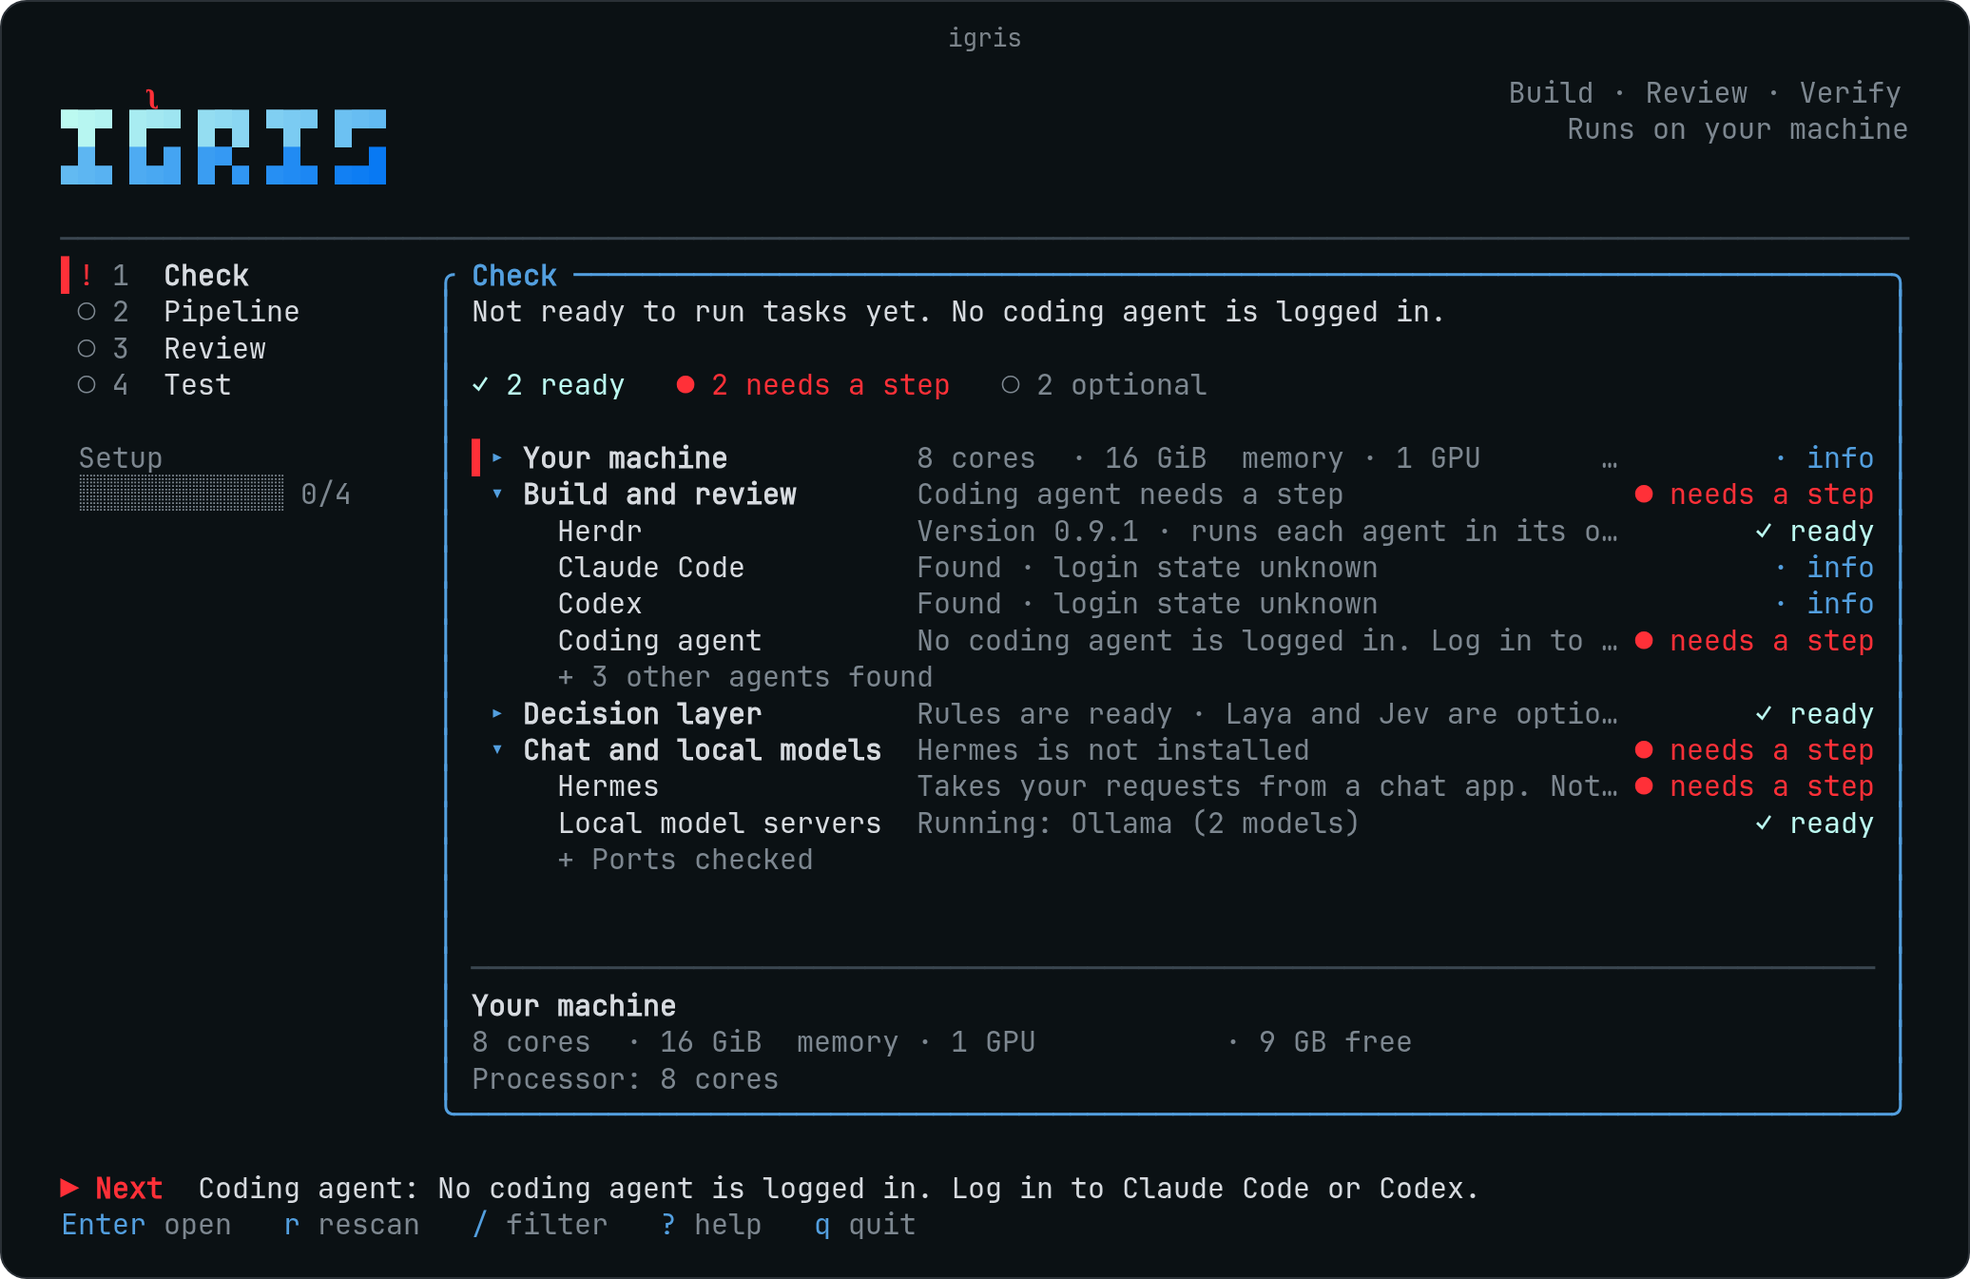
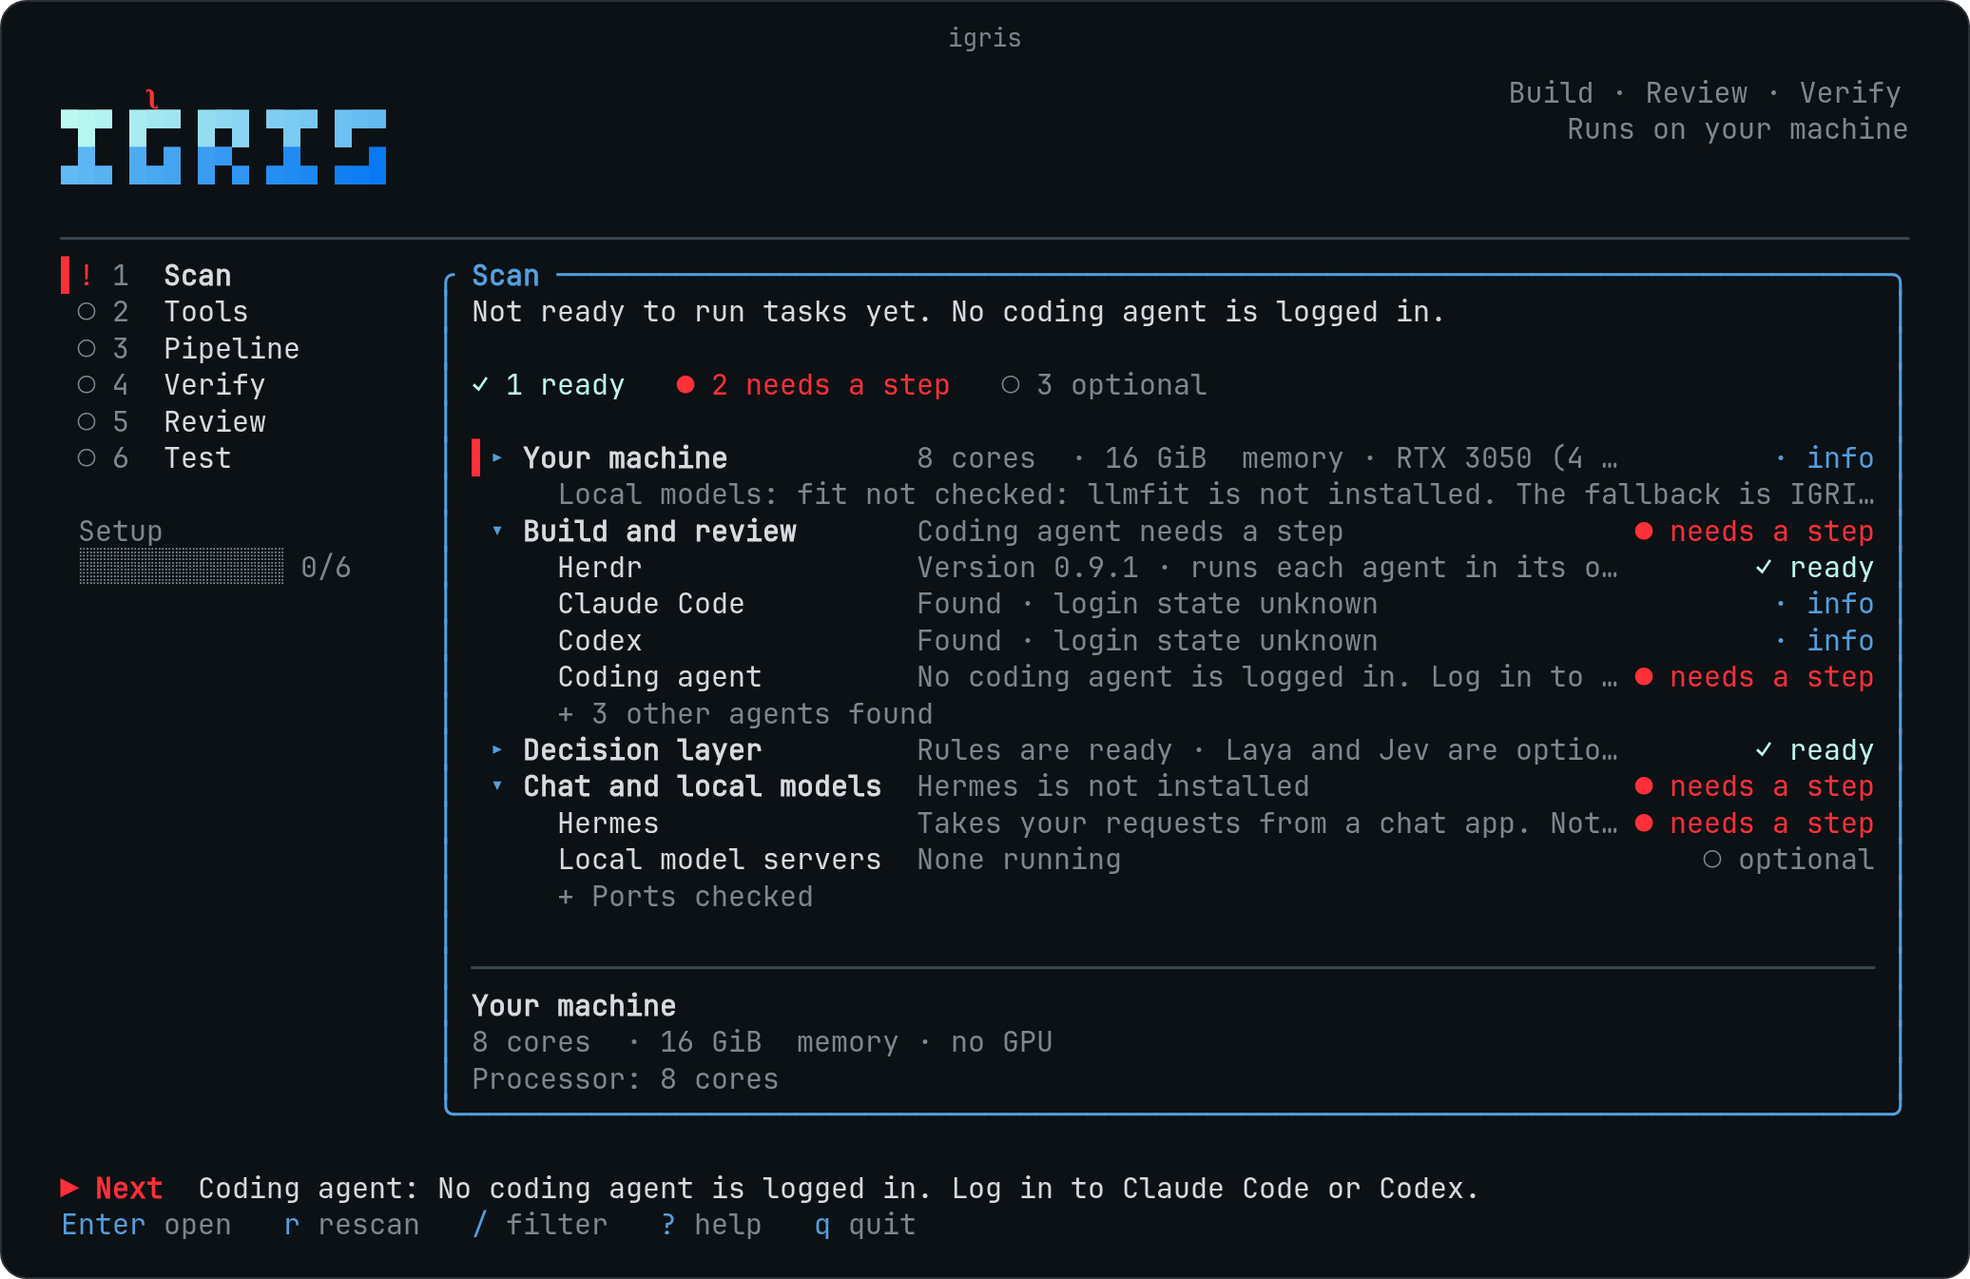
Added: Next steps box, six-step docs and an end-to-end run (454 tests).
The Test screen shows a short summary and a Next steps box after a green sample run: the
commands to use next and, for Hermes or CLI only, how to add the chat skill. The README
describes the six steps with new Tools and Verify screenshots, the changelog lists the
guided setup, and scripts/preview.py walks the six steps (agent checks answer at once, the
shim never writes through a symlink to a real tool). scripts/tui-e2e.sh walks Tools,
Pipeline, Verify, Review and Test with fake agents and checks that no igris is left.

Refs #66

Changed region(s): [[0.2471, 0.3435, 0.9575, 0.7182], [0.0309, 0.1874, 0.1853, 0.4684], [0.4942, 0.8119, 0.5251, 0.8431]]

diff --git a/crates/igris/src/tui/test_screen.rs b/crates/igris/src/tui/test_screen.rs
@@ -61,6 +61,77 @@ pub fn rerun(s: &mut State) -> Effect {
     Effect::RunChecks
 }
 
+/// Where the chat skill is kept in this repository, and where Hermes reads it.
+const SKILL: &str = "examples/hermes/igris/SKILL.md";
+const SKILL_TARGET: &str = "~/.hermes/skills/igris/SKILL.md";
+
+/// Every check passes and a sample task ran: setup is finished.
+fn finished(s: &State) -> bool {
+    s.tested
+        && s.test
+            .checks
+            .as_ref()
+            .is_some_and(|c| c.iter().all(|c| c.ok))
+}
+
+fn name_of(label: Option<String>) -> String {
+    label
+        .and_then(|l| crate::catalog::tool(&l).map(|t| t.name.to_string()))
+        .unwrap_or_else(|| "?".into())
+}
+
+/// What was set up, in words. The assistant line says plainly when there is none.
+pub fn summary_lines(s: &State) -> Vec<String> {
+    use super::tools_screen::AssistantChoice;
+    let pick =
+        |sel: Option<&super::form::Select>| sel.and_then(|x| x.current()).map(|i| i.label.clone());
+    let form = s.pipeline.form.as_ref();
+    let line = format!(
+        "Herdr runs the agents · {} builds · {} reviews · {} decides",
+        name_of(pick(form.map(|f| &f.builder))),
+        name_of(pick(form.map(|f| &f.reviewer))),
+        pick(form.map(|f| &f.backend)).unwrap_or_else(|| "rules".into()),
+    );
+    let assistant = match s.tools.assistant {
+        AssistantChoice::CliOnly => {
+            "Assistant: CLI only. You start tasks from the terminal; there is no chat app."
+                .to_string()
+        }
+        AssistantChoice::Tool(id) => format!(
+            "Assistant: {}. Chat with it once its chat app is linked.",
+            crate::catalog::tool(id).map_or(id, |t| t.name)
+        ),
+        AssistantChoice::Unset => "Assistant: not chosen yet (key 2, Tools).".to_string(),
+    };
+    vec![line, assistant]
+}
+
+/// The commands to use now, then (without a chat assistant) how to add one later.
+pub fn next_steps_lines(s: &State) -> Vec<String> {
+    use super::tools_screen::AssistantChoice;
+    let mut v = vec![
+        "Next steps".to_string(),
+        "  igris run --task \"<your task>\"   start a task".to_string(),
+        "  igris doctor                     check this machine again".to_string(),
+        "  igris continue <id>              carry on after you answer an agent in Herdr"
+            .to_string(),
+    ];
+    match s.tools.assistant {
+        AssistantChoice::CliOnly => {
+            v.push(format!(
+                "Chat later: copy {SKILL} to {SKILL_TARGET}, then set up a chat app in Hermes."
+            ));
+        }
+        AssistantChoice::Tool("hermes") => {
+            v.push(format!(
+                "Chat: copy {SKILL} to {SKILL_TARGET}, then link a chat app in Hermes."
+            ));
+        }
+        _ => {}
+    }
+    v
+}
+
 pub fn draw(f: &mut Frame, area: Rect, s: &State, t: &Theme, hits: &mut HitMap, clickable: bool) {
     let width = area.width as usize;
     let ascii = t.glyphs == Glyphs::Ascii;
@@ -100,7 +171,33 @@ pub fn draw(f: &mut Frame, area: Rect, s: &State, t: &Theme, hits: &mut HitMap, 
     // The table: id, detail, status in one column at the right edge; a failing check says how to fix it.
     let table_bottom = area.height.saturating_sub(5);
     let mut row = 2u16;
-    if let Some(checks) = &s.test.checks {
+    // Once setup is finished the table has said its piece: the summary and the next steps replace it.
+    let table = if finished(s) {
+        None
+    } else {
+        s.test.checks.as_ref()
+    };
+    if finished(s) {
+        let mut lines = summary_lines(s);
+        lines.push(String::new());
+        lines.extend(next_steps_lines(s));
+        for (i, text) in lines.iter().enumerate() {
+            let y = 2 + i as u16;
+            if y >= table_bottom {
+                break;
+            }
+            let style = if text == "Next steps" {
+                t.style(Role::Text).add_modifier(bold)
+            } else {
+                dim
+            };
+            f.render_widget(
+                Paragraph::new(Line::styled(fit(t, text, width.saturating_sub(2)), style)),
+                at(y),
+            );
+        }
+    }
+    if let Some(checks) = table {
         let sw = status_width(t);
         let detail_w = width.saturating_sub(2 + 10 + 1 + 1 + sw);
         for c in checks {
@@ -230,13 +327,17 @@ mod tests {
     }
 
     fn render(s: &State) -> (String, HitMap) {
-        let mut term = Terminal::new(TestBackend::new(100, 24)).unwrap();
+        render_h(s, 24)
+    }
+
+    fn render_h(s: &State, h: u16) -> (String, HitMap) {
+        let mut term = Terminal::new(TestBackend::new(100, h)).unwrap();
         let mut hits = HitMap::default();
         let t = Theme::detect(&Env::default());
         term.draw(|f| draw(f, f.area(), s, &t, &mut hits, true))
             .unwrap();
         let buf = term.backend().buffer().clone();
-        let text = (0..24u16)
+        let text = (0..h)
             .map(|y| {
                 (0..100u16)
                     .map(|x| buf[(x, y)].symbol().to_string())
@@ -245,6 +346,90 @@ mod tests {
             .collect::<Vec<_>>()
             .join("\n");
         (text, hits)
+    }
+
+    /// Setup is finished: the checks pass and the sample task ran.
+    fn green() -> State {
+        let mut s = on_test();
+        s.blocker = None;
+        s.test.checks = Some(vec![check("config", true)]);
+        s.tested = true;
+        s.tools.assistant = crate::tui::tools_screen::AssistantChoice::CliOnly;
+        s
+    }
+
+    #[test]
+    fn the_next_steps_box_lists_run_doctor_and_continue_after_a_green_sample() {
+        let (text, _) = render(&green());
+        for want in [
+            "Next steps",
+            "igris run --task \"<your task>\"",
+            "igris doctor",
+            "igris continue <id>",
+        ] {
+            assert!(text.contains(want), "{want}:\n{text}");
+        }
+        // Not before the sample ran, and not while a check fails.
+        let mut s = green();
+        s.tested = false;
+        assert!(!render(&s).0.contains("Next steps"));
+        let mut s = green();
+        s.test.checks = Some(vec![check("config", true), check("clean", false)]);
+        let (text, _) = render(&s);
+        assert!(
+            !text.contains("Next steps") && text.contains("fix for clean"),
+            "{text}"
+        );
+    }
+
+    #[test]
+    fn cli_only_adds_the_chat_later_line() {
+        use crate::tui::tools_screen::AssistantChoice;
+        let (text, _) = render(&green());
+        assert!(
+            text.contains("Chat later:") && text.contains("examples/hermes/igris/SKILL.md"),
+            "{text}"
+        );
+        let mut s = green();
+        s.tools.assistant = AssistantChoice::Tool("openclaw");
+        assert!(
+            !render(&s).0.contains("SKILL.md"),
+            "no Hermes skill for another assistant"
+        );
+        s.tools.assistant = AssistantChoice::Tool("hermes");
+        assert!(
+            render(&s)
+                .0
+                .contains("Chat: copy examples/hermes/igris/SKILL.md")
+        );
+    }
+
+    #[test]
+    fn the_summary_says_cli_only_plainly() {
+        let (text, _) = render(&green());
+        assert!(
+            text.contains(
+                "Assistant: CLI only. You start tasks from the terminal; there is no chat app."
+            ),
+            "{text}"
+        );
+        assert!(
+            text.contains("Herdr runs the agents ·") && text.contains("builds ·"),
+            "{text}"
+        );
+    }
+
+    #[test]
+    fn the_summary_and_the_steps_fit_the_smallest_panel() {
+        // The smallest window (80x24) leaves a panel about 15 rows high.
+        let (text, _) = render_h(&green(), 15);
+        for want in ["Assistant: CLI only", "igris continue <id>", "Chat later:"] {
+            assert!(text.contains(want), "{want}:\n{text}");
+        }
+        assert!(
+            text.contains("Run a sample task"),
+            "the buttons stay:\n{text}"
+        );
     }
 
     #[test]

diff --git a/scripts/preview.py b/scripts/preview.py
@@ -8,7 +8,7 @@ throwaway git repo in /tmp/igris-demo, captures the screens with their colours a
 font in site/src/assets/fonts:
 
     wordmark.png                                                 the IGRIS wordmark (README header)
-    check.png, pipeline.png, review.png, test.png                one screenshot per screen
+    check.png, tools.png, pipeline.png, verify.png, review.png, test.png   one screenshot per screen
     igris.gif                                                    the app in use, recorded live
     how-it-runs.gif                                              the pipeline page, one task start to finish
 
@@ -169,31 +169,46 @@ def demo_repo():
         sh(*git, "commit", "-q", "--allow-empty", "-m", "init")
     sh(*git, "reset", "-q", "--hard", sh(*git, "rev-list", "--max-parents=0", "HEAD").strip())
     (repo / "igris.toml").unlink(missing_ok=True)
-    for tool in ("claude", "codex"):
-        if found := shutil.which(tool):
-            (shim / tool).unlink(missing_ok=True)
-            (shim / tool).symlink_to(found)
+    # Each tool is found through a short wrapper. Verify's live check (`claude -p`, `codex exec`) answers at once
+    # instead of spending a real model call; every other command goes to the real tool when there is one.
+    quick = {"claude": "-p", "codex": "exec", "herdr": "--version"}
+    for tool, arg in quick.items():
+        (shim / tool).unlink(missing_ok=True)  # never write through an old symlink to the real tool
+        if not (real := shutil.which(tool)):
+            continue
+        (shim / tool).write_text(f'#!/bin/sh\nif [ "$1" = {arg} ]; then echo {"herdr 0.9.1" if tool == "herdr" else "ok"}; exit 0; fi\n'
+                                 f'exec {real} "$@"\n')
+        (shim / tool).chmod(0o755)
     return repo, shim, git
 
 
 def walk_through(t, git, repo, record=None):
-    """The same session for the screenshots and the GIF: Check, set the check command, Review, Apply, Test."""
+    """The same session for the screenshots and the GIF: Scan, Tools (CLI only), Pipeline, Verify, Review, Test."""
     t.wait("optional"); time.sleep(1.2)
     if record:
         record("check")
-    t.keys("2"); t.wait("Builder agent"); time.sleep(0.8)
-    t.keys("Down", "Down", pause=0.5); t.keys("Enter"); t.wait("e.g. cargo test"); time.sleep(0.6)
+    t.keys("2"); t.wait("managers"); time.sleep(0.8)
+    t.keys("Tab", "Tab", "Tab", "Tab", pause=0.4); t.wait("Assistant ·")
+    t.keys("Down", "Down", pause=0.5); t.keys("Enter"); t.wait("CLI only"); time.sleep(0.8)
+    if record:
+        record("tools")
+    t.keys("3"); t.wait("Check command"); time.sleep(0.8)
+    t.keys("Enter"); t.wait("e.g. cargo test"); time.sleep(0.6)
     for ch in "cargo test":
         t.keys(ch, literal=True, pause=0.09)
     time.sleep(0.5)
     if record:
         record("pipeline")
-    t.keys("Enter", pause=1.0); t.keys("3"); t.wait("Write to"); time.sleep(1.8)
+    t.keys("Enter", pause=1.0)
+    t.keys("4"); t.wait("replied in", 30); time.sleep(1.5)
+    if record:
+        record("verify")
+    t.keys("5"); t.wait("Write to"); time.sleep(1.8)
     if record:
         record("review")
     t.keys("Tab", pause=0.6); t.keys("Enter", pause=1.8)
     sh(*git, "add", "igris.toml"); sh(*git, "commit", "-q", "-m", "Add igris.toml")
-    t.keys("4"); t.wait("Run the checks again"); time.sleep(1.0); t.keys("Enter", pause=0.2)
+    t.keys("6"); t.wait("Run the checks again"); time.sleep(1.0); t.keys("Enter", pause=0.2)
     t.wait("All checks pass", 20); time.sleep(2.2)
     if record:
         record("test")

diff --git a/README.md b/README.md
@@ -33,27 +33,34 @@ You run it from a terminal, with the keyboard, the mouse, or both. It checks wha
 
 `IGRIS_VERSION` is only needed while IGRIS has pre-releases and no stable one. With Rust installed you can build it instead: `cargo install --git https://github.com/JlassiRafet/IGRIS igris`.
 
-## Checking your machine
+## Setting up, in six steps
 
-The first screen scans in a second or two and lists what it found: your hardware, [Herdr](https://herdr.dev) (it runs each agent in its own pane), the coding agents on your `PATH` and whether they are logged in, the decision layer, Hermes and any local model servers. Each row says ready, needs a step, or optional. Open a row to see the fix; for a login or the Herdr install, IGRIS runs the tool's own documented command after you say yes.
+The rail on the left lists the steps; keys `1` to `6` jump to one, and the `Next` row under the panel names what to do now.
 
-![Check screen: a list of tools with a status on each row](preview/check.png)
+1. **Scan** finds what you already have in a second or two: your hardware, [Herdr](https://herdr.dev) (it runs each agent in its own pane), the coding agents on your `PATH` and whether they are logged in, the decision layer, Hermes and any local model servers. Each row says ready, needs a step, or optional.
+2. **Tools** is where you choose: the workspace (Herdr), the builder, the reviewer, the decision layer and the assistant that takes your requests from chat. "CLI only" is an answer: you then start tasks from the terminal. Press `Enter` on a tool that is missing to install it, `c` to connect it (a login, or an API key typed into a masked box that goes straight to the tool's own command), `f` to filter. IGRIS runs only the tool's own documented command, after you say yes, and stops it if you quit. On a small machine it suggests local models that fit, judged by [llmfit](https://github.com/AlexsJones/llmfit) when it is installed.
+3. **Pipeline** sets the command that proves a task is done, such as `cargo test` or `npm test`. Every field validates as you type and explains itself underneath.
+4. **Verify** runs one live check per chosen tool and shows how long each took. Review stays locked until they pass. The builder, the reviewer and Herdr cannot be skipped. (A check of an agent is a real, tiny model call.)
+5. **Review** shows the exact change before anything is written.
+6. **Test** runs the same checks as `igris doctor`, and can run a small sample task through your own agents.
 
-## Setting up the pipeline
+![Scan screen: a list of tools with a status on each row](preview/check.png)
 
-Pick the builder and the reviewer from the agents it found, and set the command that proves a task is done, such as `cargo test` or `npm test`. Every field validates as you type and explains itself underneath.
+![Tools screen: the assistant group with CLI only chosen](preview/tools.png)
 
 ![A framed input box asking for the check command](preview/pipeline.png)
 
+![Verify screen: every chosen tool answered, with its time](preview/verify.png)
+
 ## Reviewing before anything is written
 
-Review shows the exact change to `igris.toml`, as a diff, before it writes. If the file already exists, the old one is kept as `igris.toml.bak`. You can write to the repository or to your user config.
+Step 5 shows the exact change to `igris.toml`, as a diff, before it writes. If the file already exists, the old one is kept as `igris.toml.bak`. You can write to the repository or to your user config.
 
 ![Review screen: the new igris.toml as a diff and an Apply button](preview/review.png)
 
 ## Testing it
 
-Test runs the same checks as `igris doctor` and can run a small sample task through your own agents, so you know the pipeline works before you give it real work.
+Step 6 runs the same checks as `igris doctor` and can run a small sample task through your own agents, so you know the pipeline works before you give it real work. When the sample is green, a **Next steps** box lists the commands to use next (`igris run`, `igris doctor`, `igris continue`) and, if you chose Hermes or CLI only, how to add the chat skill.
 
 ![Test screen: every check is ready](preview/test.png)
 
@@ -75,7 +82,7 @@ IGRIS answers its four questions, starts the builder in a Herdr pane in its own 
 
 The first time an agent works in a new folder it asks you a question inside its Herdr pane, for example whether you trust the folder. IGRIS reports the task as `blocked`: answer in Herdr, then run `igris continue <id>`.
 
-## Chat with it (optional)
+## Chat with it
 
 [Hermes](https://hermes-agent.nousresearch.com) can take your requests from a chat app such as Telegram and run them through IGRIS. Copy [`examples/hermes/igris/SKILL.md`](examples/hermes/igris/SKILL.md) to `~/.hermes/skills/igris/SKILL.md`. It tells Hermes how to call `igris run`, what the exit codes mean, and to ask you before anything risky or before a merge.
 

diff --git a/CHANGELOG.md b/CHANGELOG.md
@@ -4,6 +4,20 @@ All notable changes are listed here. Format: [Keep a Changelog](https://keepacha
 
 ## [Unreleased]
 
+### Added
+- A guided setup in six steps: Scan, Tools, Pipeline, Verify, Review, Test (keys `1` to `6`). Tools lists the workspace, builder, reviewer, decision layer and assistant, with the install and connect methods each tool documents (a login, or an API key typed into a masked box that goes to the tool's own command by stdin, never argv or disk). Installs and model pulls run in the background with a timeout and a clean tail, and quitting or closing the terminal stops them.
+- Local-model suggestions that fit the machine, judged by `llmfit` when it is installed (IGRIS's own list; no command is built from llmfit's output).
+- Verify runs one live check per chosen tool and shows its time. Review stays locked until the chosen tools pass; the builder, reviewer and Herdr cannot be skipped.
+- A **Next steps** box on the Test screen after a green sample run, and a tmux test that walks all six steps with fake agents (`scripts/tui-e2e.sh`).
+- `preview/tools.png` and `preview/verify.png`; the other screenshots and the GIF are rebuilt for the six steps.
+
+### Changed
+- The Check screen is titled Scan. Pipeline no longer lists the builder and the reviewer (Tools chooses them) but still validates them.
+- The assistant is a required answer; "CLI only" is one of them. The README's "Chat with it" section is no longer marked optional.
+
+### Fixed
+- A background job (install, pull, check) no longer outlives a closed terminal.
+
 ## [0.1.0-rc1] - 2026-11-23
 
 The first pre-release: the terminal app, the orchestrator and `igris doctor`, with installers for Linux, macOS and Windows.
